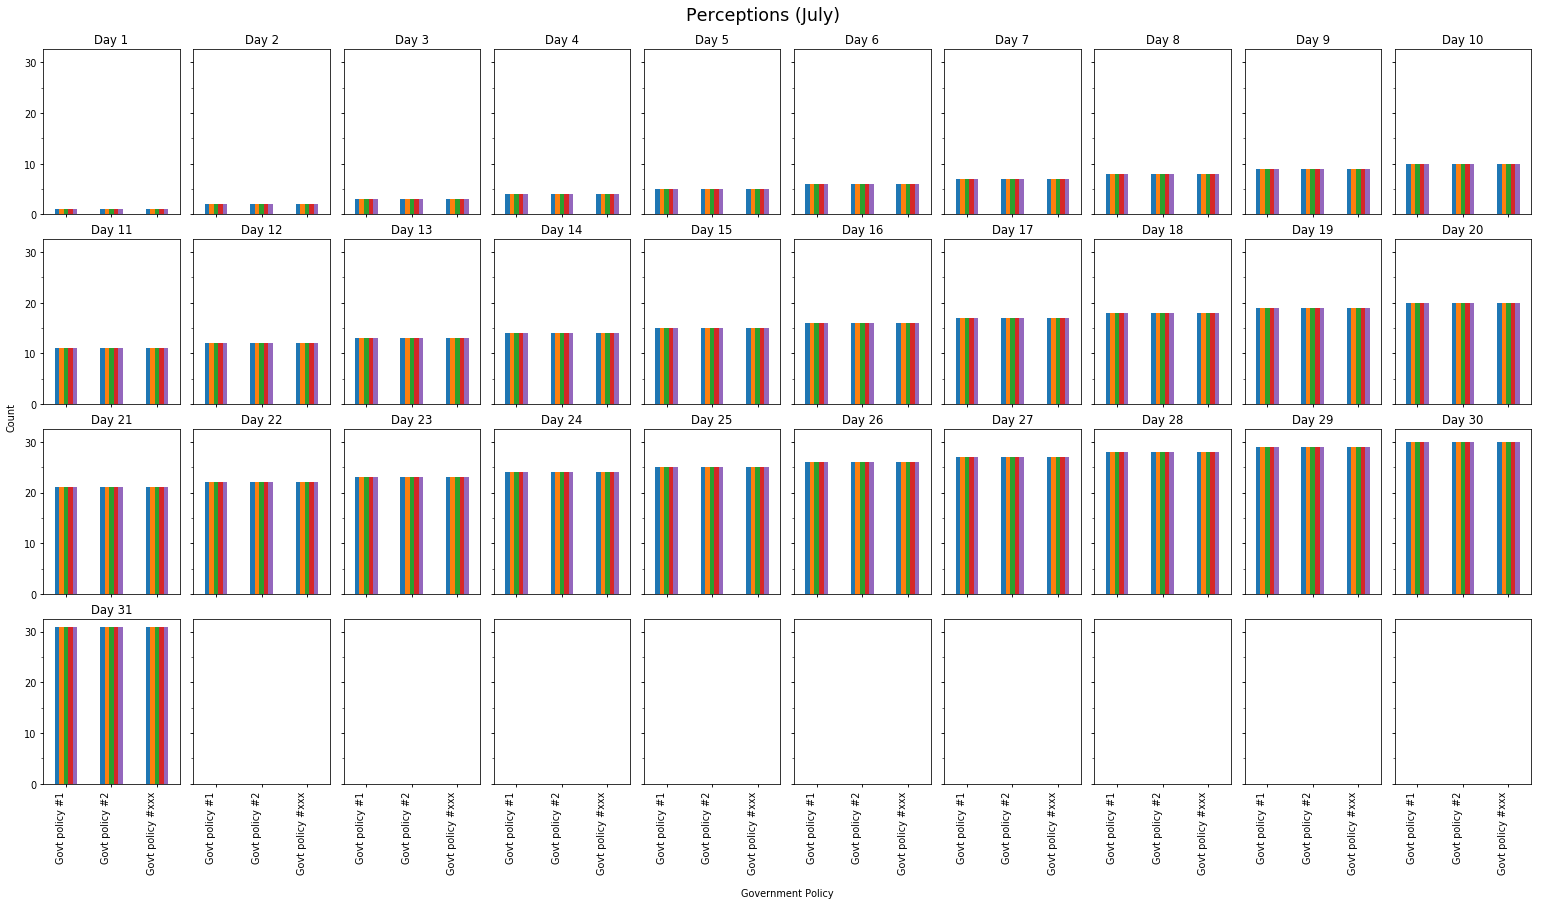
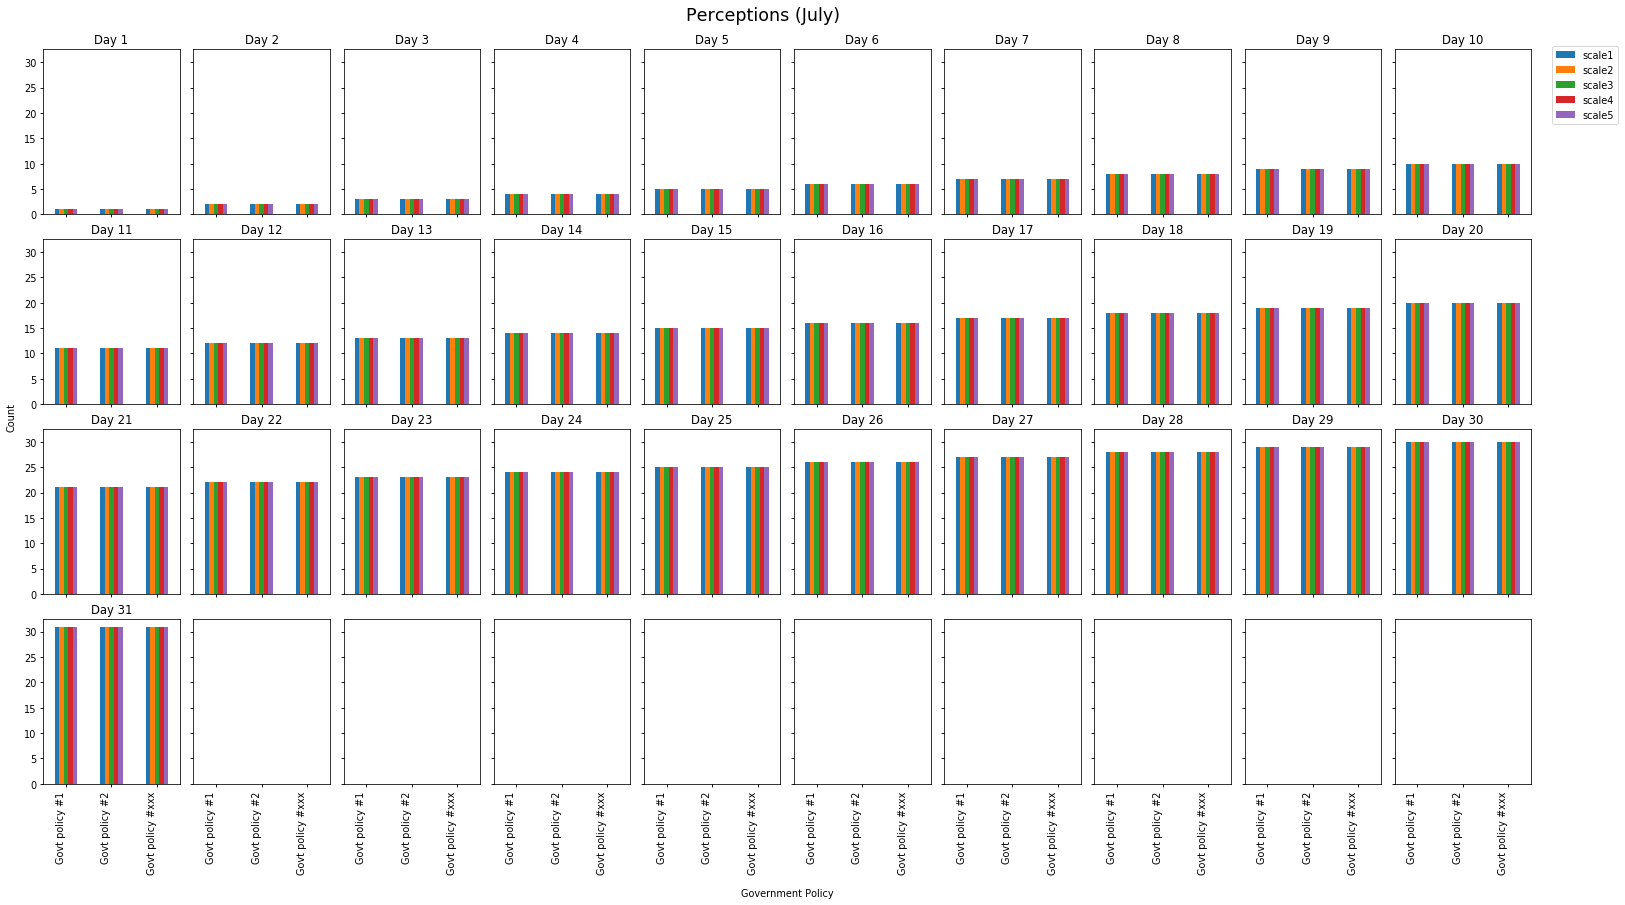
Perception plot

diff --git a/perception plotter.py b/perception plotter.py
@@ -29,14 +29,15 @@ def plot_perception():
     plt.xlabel("Government Policy", labelpad=90)
     plt.ylabel("Count")
     plt.subplots_adjust(hspace=0.15, wspace=0.1)
+    plt.legend()
     
     
     for i in range(1,11):
         df1 = df.pivot(index='name', columns='scale', values=str(i))
         splt1 = df1.plot(ax=axes[0,i-1], kind='bar')
         splt1.set_ylabel("")
-        splt1.set_xlabel("")
-        splt1.set_yticks([0,10,20,30,40])
+        splt1.set_xlabel("")    
+        splt1.set_yticks([0,5,10,15,20,25,30,35,40])
         splt1.legend().remove()
         splt1.set_title("Day "+str(i))
         
@@ -66,6 +67,8 @@ def plot_perception():
         #splt1.set_yticks([1,2,3,4,5])
         splt1.legend().remove()
         splt1.set_title("Day "+str(i+30))
+    
+    splt1.legend(bbox_to_anchor=(11.05, 4), loc='lower left', borderaxespad=0.)
     
 #    splt2 = df2.plot(ax=axes[0,1], kind='bar')
 #    splt2.set_ylabel("")
